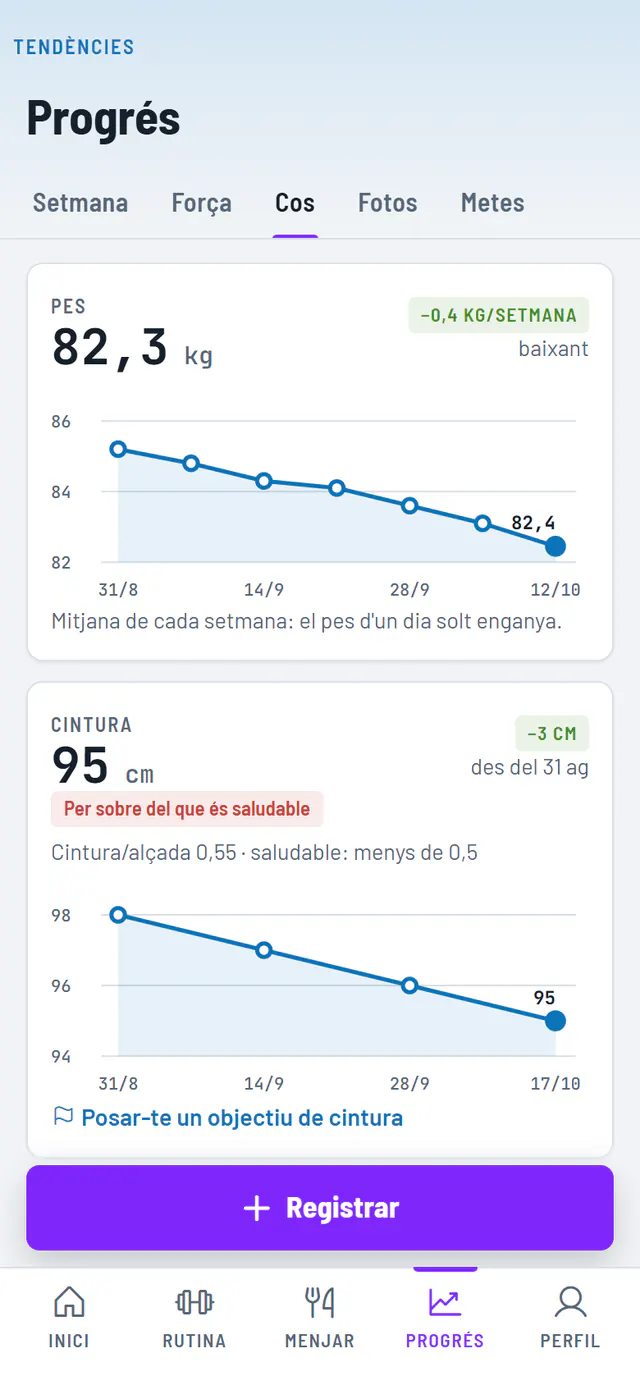
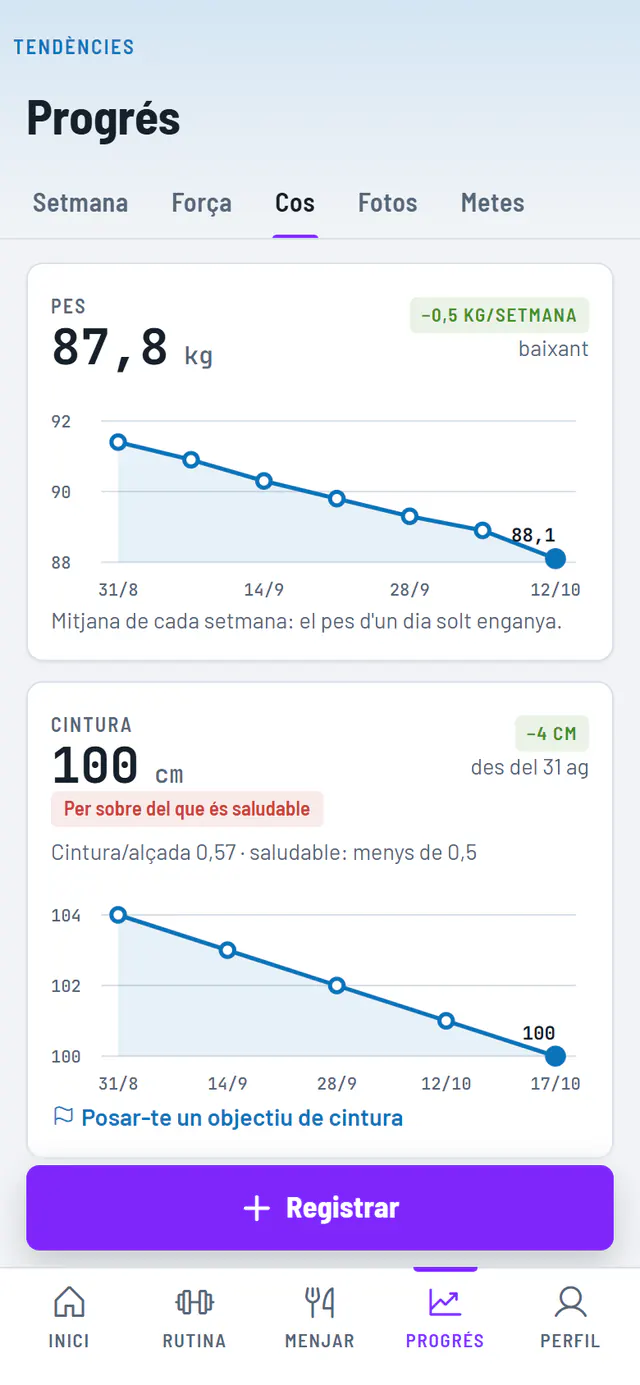
0.9.1 (en curso): captura «Cuerpo» con datos inventados y permiso de almacenamiento en Android 10 o anterior

diff --git a/src/plataforma/archivos.ts b/src/plataforma/archivos.ts
@@ -8,9 +8,23 @@ function aBase64(bytes: Uint8Array): string {
   return btoa(s)
 }
 
+/**
+ * Android 10 o anterior: Documentos pide el permiso de almacenamiento (desde Android 11 no hace falta y sale
+ * concedido). `pedir`: si no lo tiene, se pregunta; si no, solo se mira (para no preguntar al abrir la app).
+ */
+export async function permisoDocumentos(pedir: boolean): Promise<boolean> {
+  if (!esNativo()) return true
+  try {
+    const { Filesystem } = await import('@capacitor/filesystem')
+    const p = pedir ? await Filesystem.requestPermissions() : await Filesystem.checkPermissions()
+    return p.publicStorage === 'granted'
+  } catch { return false }
+}
+
 /** Guarda un archivo. Android: Documentos/JowyFit (sobrevive a desinstalar). Web: descarga. */
 export async function guardarArchivo(nombre: string, bytes: Uint8Array, tipo = 'application/octet-stream'): Promise<string> {
   if (esNativo()) {
+    if (!(await permisoDocumentos(true))) throw new Error(t('Sin permiso para guardar en Documentos. Dalo en los ajustes del móvil: Aplicaciones → JowyFit → Permisos.'))
     const { Filesystem, Directory } = await import('@capacitor/filesystem')
     const r = await Filesystem.writeFile({ path: `JowyFit/${nombre}`, data: aBase64(bytes), directory: Directory.Documents, recursive: true })
     return r.uri
@@ -67,9 +81,9 @@ export async function compartirNativo(nombre: string, bytes: Uint8Array, titulo:
 export type CopiaGuardada = { nombre: string; fecha: number; tam: number }
 export type ArchivoElegido = { nombre: string; bytes: Uint8Array }
 
-/** Lista las copias guardadas en Documentos/JowyFit (solo Android). */
+/** Lista las copias guardadas en Documentos/JowyFit (solo Android; sin el permiso de Android 10 o anterior, ninguna). */
 export async function copiasGuardadas(): Promise<CopiaGuardada[]> {
-  if (!esNativo()) return []
+  if (!esNativo() || !(await permisoDocumentos(false))) return []
   try {
     const { Filesystem, Directory } = await import('@capacitor/filesystem')
     const r = await Filesystem.readdir({ path: 'JowyFit', directory: Directory.Documents })

diff --git a/index.html b/index.html
@@ -330,7 +330,7 @@
             <p class="peq" data-i18n="comun.datos-ejemplo">Datos de ejemplo.</p>
           </div>
           <figure class="h-fig" data-siguiente><div class="movil" data-ui><div class="pantalla"><div class="barra-estado" aria-hidden="true"><span>20:30</span><i class="isla"></i><span class="bat"></span></div>
-            <img src="landing/capturas/es/cuerpo.webp" width="640" height="1385" loading="lazy" decoding="async" data-i18n-attr="alt:cuerpo.alt" alt="Progreso, pestaña Cuerpo: el peso baja de 85,2 a 82,3 kg en siete semanas y la cintura, de 98 a 95 cm." /></div></div></figure>
+            <img src="landing/capturas/es/cuerpo.webp" width="640" height="1385" loading="lazy" decoding="async" data-i18n-attr="alt:cuerpo.alt" alt="Progreso, pestaña Cuerpo: el peso baja de 91,4 a 87,8 kg en siete semanas y la cintura, de 104 a 100 cm." /></div></div></figure>
         </article>
       </section>
 
@@ -432,7 +432,7 @@
             </div>
             <figure class="col-movil" data-revelar="movil" style="--i:1">
               <div class="movil" data-ui><div class="pantalla"><div class="barra-estado" aria-hidden="true"><span>20:30</span><i class="isla"></i><span class="bat"></span></div>
-                <img src="landing/capturas/es/cuerpo.webp" width="640" height="1385" loading="lazy" decoding="async" data-i18n-attr="alt:cuerpo.alt" alt="Progreso, pestaña Cuerpo: el peso baja de 85,2 a 82,3 kg en siete semanas y la cintura, de 98 a 95 cm." /></div></div>
+                <img src="landing/capturas/es/cuerpo.webp" width="640" height="1385" loading="lazy" decoding="async" data-i18n-attr="alt:cuerpo.alt" alt="Progreso, pestaña Cuerpo: el peso baja de 91,4 a 87,8 kg en siete semanas y la cintura, de 104 a 100 cm." /></div></div>
               <figcaption data-i18n="comun.datos-ejemplo">Datos de ejemplo.</figcaption>
             </figure>
           </div>

diff --git a/src/app/copias.ts b/src/app/copias.ts
@@ -5,7 +5,7 @@ import { leerClaveCopias } from '../datos/claveCopias'
 import { reprogramarNotificaciones } from '../datos/acciones/avisos'
 import { guardarAjustes, leerAjustes, leerPerfil } from '../datos/repos'
 import { automaticasDeMasNueva, esCifradaPorNombre, nombreCopia } from '../dominio/copias'
-import { borrarCopiaGuardada, compartirArchivo, copiasGuardadas, esNativo, guardarArchivo } from '../plataforma'
+import { borrarCopiaGuardada, compartirArchivo, copiasGuardadas, esNativo, guardarArchivo, permisoDocumentos } from '../plataforma'
 import { t } from '../i18n'
 
 export type CopiaPreparada = { nombre: string; bytes: Uint8Array }
@@ -46,6 +46,8 @@ export async function copiaAutomatica(): Promise<boolean> {
   if (!a.copiaAuto || !esNativo()) return false
   if (a.ultimaCopia && Date.now() - new Date(a.ultimaCopia).getTime() < 7 * 86_400_000) return false
   if (!(await leerPerfil())?.altaCompleta) return false
+  // Sin el permiso de almacenamiento (Android 10 o anterior) no se pregunta al abrir: lo pedirá «Hacer copia ahora».
+  if (!(await permisoDocumentos(false))) return false
   try {
     const guardadas = await copiasGuardadas()
     const [ultima] = automaticasDeMasNueva(guardadas.map(c => c.nombre))

diff --git a/src/landing/i18n/ca.ts b/src/landing/i18n/ca.ts
@@ -166,7 +166,7 @@ const ca: Record<keyof typeof es, string> = {
   'cuerpo.p1': "Pes, cintura i greix corporal en un gràfic senzill. Amb la mitjana de cada setmana, perquè el pes d’un sol dia enganya.",
   'cuerpo.android': "Si tens una bàscula o un rellotge connectats al mòbil, els passos i el pes s’apunten sols (a través de Health Connect, l’app de salut d’Android, i només si tu ho actives).",
   'cuerpo.iphone': "A l’iPhone, el pes i els passos els apuntes tu en un moment.",
-  'cuerpo.alt': 'Progrés, pestanya Cos: el pes baixa de 85,2 a 82,3 kg en set setmanes i la cintura, de 98 a 95 cm.',
+  'cuerpo.alt': 'Progrés, pestanya Cos: el pes baixa de 91,4 a 87,8 kg en set setmanes i la cintura, de 104 a 100 cm.',
 
   // Privacidad
   'privacidad.titulo': 'Les dades es queden al teu mòbil.',

diff --git a/src/landing/i18n/en.ts b/src/landing/i18n/en.ts
@@ -166,7 +166,7 @@ const en: Record<keyof typeof es, string> = {
   'cuerpo.p1': 'Weight, waist, and body fat in a simple chart. With each week’s average, because a single day’s weight can fool you.',
   'cuerpo.android': 'If you have a scale or a watch connected to your phone, your steps and weight are logged for you (through Health Connect, Android’s health app, and only if you turn it on).',
   'cuerpo.iphone': 'On iPhone, you log your weight and steps yourself in seconds.',
-  'cuerpo.alt': 'Progress, Body tab: weight drops from 85.2 to 82.3 kg in seven weeks, and waist from 98 to 95 cm.',
+  'cuerpo.alt': 'Progress, Body tab: weight drops from 91.4 to 87.8 kg in seven weeks, and waist from 104 to 100 cm.',
 
   // Privacidad
   'privacidad.titulo': 'Your data stays on your phone.',

diff --git a/src/landing/i18n/es.ts b/src/landing/i18n/es.ts
@@ -166,7 +166,7 @@ const es = {
   'cuerpo.p1': 'Peso, cintura y grasa corporal en una gráfica sencilla. Con la media de cada semana, porque el peso de un día suelto engaña.',
   'cuerpo.android': 'Si tienes una báscula o un reloj conectados al móvil, los pasos y el peso se apuntan solos (a través de Health Connect, la app de salud de Android, y solo si tú lo activas).',
   'cuerpo.iphone': 'En el iPhone, el peso y los pasos los apuntas tú en un momento.',
-  'cuerpo.alt': 'Progreso, pestaña Cuerpo: el peso baja de 85,2 a 82,3 kg en siete semanas y la cintura, de 98 a 95 cm.',
+  'cuerpo.alt': 'Progreso, pestaña Cuerpo: el peso baja de 91,4 a 87,8 kg en siete semanas y la cintura, de 104 a 100 cm.',
 
   // Privacidad
   'privacidad.titulo': 'Tus datos se quedan en tu móvil.',
